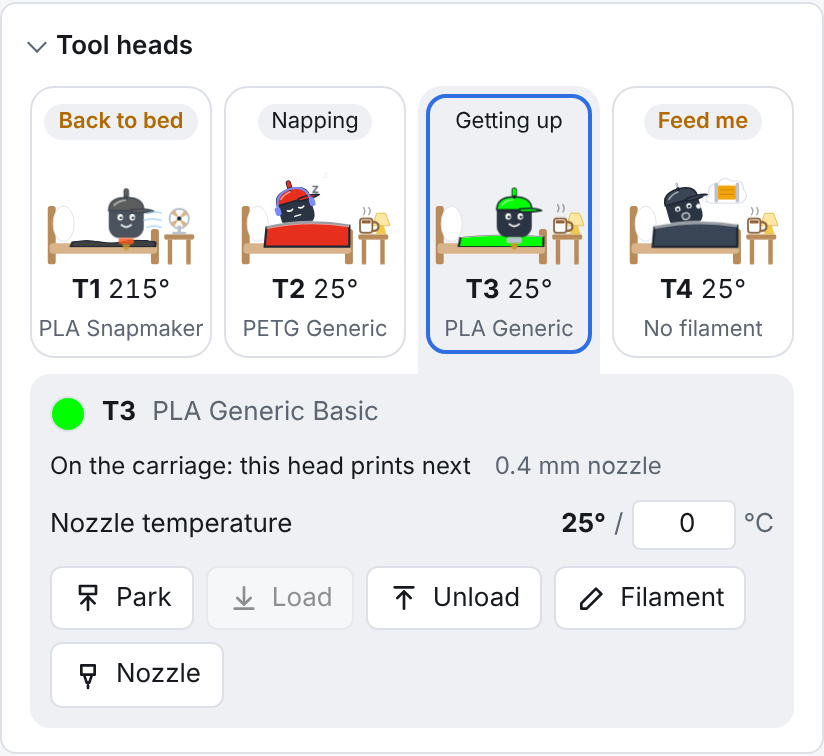
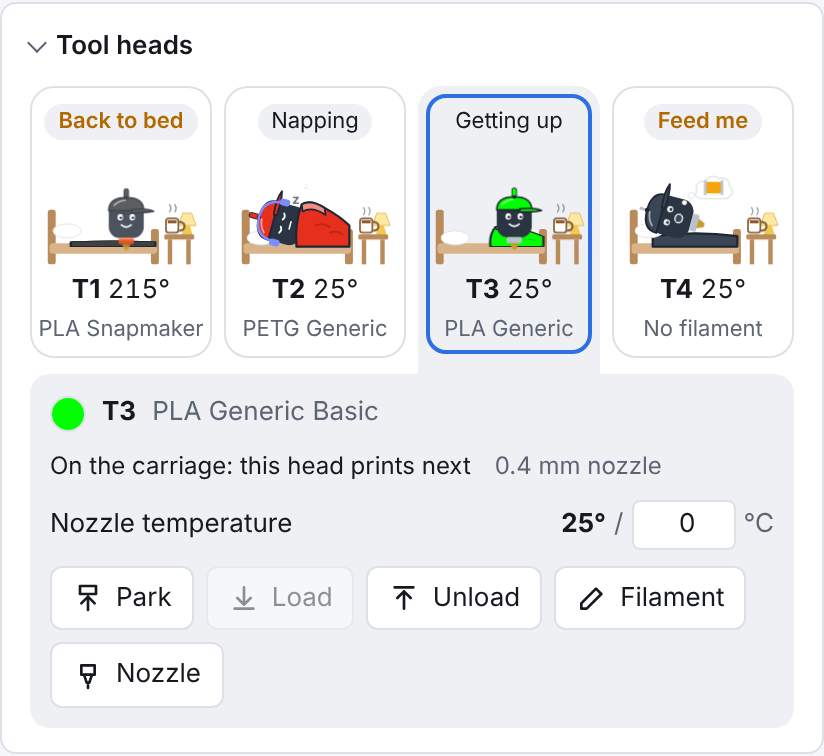
Device: docked heads lie back on the pillow (L3), tucked in to the chin or on top of the blanket by mood
Claude-Session: https://claude.ai/code/session_01NuZpi382jh2qaLFFDcqjx2

diff --git a/apps/web/src/device/ui/HeadBed.tsx b/apps/web/src/device/ui/HeadBed.tsx
@@ -1,5 +1,5 @@
 import { STILL_HOT, type HeadMood } from '../heads';
-import { HeadBody, HeadFeatures } from './HeadFace';
+import { HeadBody } from './HeadFace';
 
 /**
  * What a docked head is doing in its bed: asleep, a coffee break now and then,
@@ -18,77 +18,57 @@ const PHONES = (
   </g>
 );
 
-/** How a docked head rests, from its mood: what it does in bed and what is on the bedside table. */
-type Pose = 'nap' | 'hot' | 'cooling' | 'dream' | 'stretch' | 'worried';
+/** How a docked head rests, from its mood: under or on top of the blanket, and what is around it. */
+type Pose = 'nap' | 'hot' | 'cooling' | 'hungry' | 'heating' | 'worried';
 
 function poseOf(mood: HeadMood, temp: number): Pose {
-  if (mood === 'worried') return 'worried';
-  if (mood === 'hungry') return 'dream';
-  if (mood === 'heating') return 'stretch';
-  if (mood === 'cooling') return 'cooling';
+  if (mood === 'worried' || mood === 'hungry' || mood === 'heating' || mood === 'cooling') return mood;
   if (mood === 'hot' || temp >= STILL_HOT) return 'hot';
   return 'nap';
 }
 
+const FACE: Record<Pose, HeadMood> = { nap: 'napping', hot: 'hot', cooling: 'cooling', hungry: 'hungry', heating: 'heating', worried: 'worried' };
+
 /**
- * A docked tool head in bed, propped up on its pillow so the face shows.
- * Napping: headphones on, under a blanket in its filament colour; now and then
- * a coffee break (headphones on the bedpost, sits up, sips from the mug on the
- * bedside table, lies back). Hot: rests the same way but on top of the
- * blanket, sweating; cooling down adds a fan on the bedside table. No
- * filament: sits on top of the blanket, looks at you and thinks of a spool.
- * Heating up: sits up and stretches as the heat rises. Getting up and going
- * to bed are the same moves.
+ * A docked tool head lying back on its pillow, cap on the pillow, the face
+ * tilting with it. Napping (headphones on), heating up and check me are
+ * tucked in under a blanket in the filament colour, pulled up to the chin;
+ * hot, cooling down (with a fan on the bedside table) and feed me (dreaming
+ * of a spool) lie on top of it. Now and then a napping head takes a coffee
+ * break: headphones on the bedpost, sits up, sips from the mug, lies back.
+ * Getting up and going to bed are the same moves.
  */
 export function HeadBed({ mood, colour, loaded, temp, scene, size = 60 }: { mood: HeadMood; colour: string | null; loaded: boolean | null; temp: number; scene: BedScene; size?: number }) {
   const blanketColour = loaded && colour ? colour : 'var(--dv-head-hi)';
   const pose = poseOf(mood, temp);
-  const edge = { stroke: 'var(--dv-outline)', strokeWidth: 2.5 };
-  // Napping, hot and cooling heads lie down on the pillow; the face stays upright so the mood reads.
-  const lies = pose === 'nap' || pose === 'hot' || pose === 'cooling' || pose === 'worried';
-  const onTop = pose === 'hot' || pose === 'cooling' || pose === 'dream';
-  const blanketPath = lies && !onTop ? 'M70 54Q96 46 124 56V80H68Z' : pose === 'stretch' ? 'M30 66Q76 58 124 64V80H28Z' : onTop && lies ? 'M30 64Q76 58 124 64V80H28Z' : 'M30 58Q76 48 124 56V80H28Z';
-  const blanket = (
+  const onTop = pose === 'hot' || pose === 'cooling' || pose === 'hungry';
+  // Where the head rests: on the mattress, or a little higher on top of the blanket.
+  const b = onTop ? 68 : 76;
+  const edge = { stroke: 'var(--dv-outline)', strokeWidth: 2.5, strokeLinejoin: 'round' as const };
+  const blanket = onTop ? (
     <g className="dv-bed-blanket">
-      <path d={blanketPath} fill={blanketColour} {...edge} />
-      <path d={blanketPath.replace(/V.*$/, '')} stroke="rgba(255,255,255,.55)" strokeWidth="4" fill="none" />
-    </g>
-  );
-  const faceMood: HeadMood = pose === 'nap' ? 'napping' : pose === 'worried' ? 'worried' : pose === 'hot' ? 'hot' : 'cooling';
-  const lying = lies ? (
-    <>
-      <g transform={`translate(12 ${onTop ? 72 : 90}) rotate(-90) scale(.78)`} style={PLACED}>
-        <HeadBody mood={faceMood} colour={colour} loaded={loaded} temp={temp} face={false} />
-        {pose === 'nap' && PHONES}
-      </g>
-      <g transform={`translate(17 ${onTop ? -7 : 11}) scale(.72)`} style={PLACED}>
-        <HeadFeatures mood={faceMood} />
-      </g>
-    </>
-  ) : pose === 'stretch' ? (
-    <g transform="translate(30 10) scale(.6)" style={PLACED}>
-      <g className="dv-bed-stretch">
-        <HeadBody mood="heating" colour={colour} loaded={loaded} temp={temp} />
-      </g>
+      <path d="M28 68Q76 62 124 68V80H28Z" fill={blanketColour} {...edge} />
     </g>
   ) : (
-    // Sits up on top of the blanket, facing you.
-    <g transform="translate(34 6) scale(.6)" style={PLACED}>
-      <HeadBody mood="hungry" colour={colour} loaded={loaded} temp={temp} />
+    <g className="dv-bed-blanket">
+      <path d={`M70 ${b - 44}Q80 ${b - 50} 96 ${b - 40}Q114 ${b - 30} 124 ${b - 20}V${b + 4}H64Q62 ${b - 24} 70 ${b - 44}Z`} fill={blanketColour} {...edge} />
+      <path d={`M70 ${b - 44}Q80 ${b - 50} 96 ${b - 40}L97 ${b - 32}Q82 ${b - 42} 71 ${b - 36}Z`} fill="rgba(255,255,255,.45)" {...edge} strokeWidth={2} />
+      <path d={`M86 ${b - 20}q8-4 16 2M102 ${b - 12}q8-3 14 2`} stroke="rgba(0,0,0,.18)" strokeWidth="2" fill="none" strokeLinecap="round" />
     </g>
   );
   return (
     <svg className={`dv-bed dv-bed-${scene} dv-bed-pose-${pose}`} viewBox="0 0 170 104" width={size * 1.63} height={size} aria-hidden>
-      <rect x="2" y="34" width="9" height="66" rx="3" fill="var(--dv-wood)" />
+      <rect x="2" y="38" width="9" height="62" rx="3" fill="var(--dv-wood)" />
       <rect x="119" y="60" width="9" height="40" rx="3" fill="var(--dv-wood)" />
       <rect x="4" y="76" width="122" height="12" rx="4" fill="var(--dv-mattress)" />
-      {lies ? (
-        <ellipse cx="26" cy={onTop ? 62 : 68} rx="17" ry="9" fill="#fff" stroke="var(--border)" />
-      ) : (
-        <ellipse cx="20" cy="54" rx="12" ry="20" fill="#fff" stroke="var(--border)" />
-      )}
       {onTop && blanket}
-      <g className="dv-bed-lie">{lying}</g>
+      <ellipse cx="24" cy={b - 6} rx="16" ry="8" fill="#fff" stroke="var(--border)" />
+      <g className="dv-bed-lie">
+        <g transform={`translate(50 ${b - 22}) rotate(-75) scale(.7) translate(-50 -54)`} style={PLACED}>
+          <HeadBody mood={FACE[pose]} colour={colour} loaded={loaded} temp={temp} />
+          {pose === 'nap' && PHONES}
+        </g>
+      </g>
       {!onTop && blanket}
       <g className="dv-bed-sit">
         <g transform="translate(60 16) scale(.62)" style={PLACED}>
@@ -97,9 +77,9 @@ export function HeadBed({ mood, colour, loaded, temp, scene, size = 60 }: { mood
         </g>
       </g>
       <g className="dv-bed-post">
-        <path d="M-2 34Q6 18 14 34" stroke="var(--dv-phones)" strokeWidth="3" fill="none" />
-        <rect x="-5" y="32" width="7" height="11" rx="3" fill="var(--dv-phones)" />
-        <rect x="10" y="32" width="7" height="11" rx="3" fill="var(--dv-phones)" />
+        <path d="M-2 38Q6 22 14 38" stroke="var(--dv-phones)" strokeWidth="3" fill="none" />
+        <rect x="-5" y="36" width="7" height="11" rx="3" fill="var(--dv-phones)" />
+        <rect x="10" y="36" width="7" height="11" rx="3" fill="var(--dv-phones)" />
       </g>
       <rect x="134" y="66" width="34" height="6" rx="2" fill="var(--dv-wood)" />
       <rect x="138" y="72" width="5" height="28" fill="var(--dv-wood)" />
@@ -107,15 +87,15 @@ export function HeadBed({ mood, colour, loaded, temp, scene, size = 60 }: { mood
       {pose === 'cooling' ? (
         <g className="dv-bed-fan">
           <g transform="translate(151 48)" style={PLACED}>
-            <rect x="-2" y="8" width="4" height="8" fill="var(--dv-metal)" />
-            <rect x="-8" y="15" width="16" height="3" rx="1.5" fill="var(--dv-metal)" />
+            <rect x="-2" y="8" width="4" height="10" fill="var(--dv-metal)" />
+            <rect x="-8" y="16" width="16" height="3" rx="1.5" fill="var(--dv-metal)" />
             <circle r="11" fill="none" stroke="var(--dv-metal)" strokeWidth="2" />
             <g className="dv-bed-blades">
               <path d="M0 0L-3-10Q0-12 3-10ZM0 0L10-3Q12 0 10 3ZM0 0L3 10Q0 12-3 10ZM0 0L-10 3Q-12 0-10-3Z" fill="var(--dv-mattress)" />
             </g>
             <circle r="2.4" fill="var(--dv-outline)" />
           </g>
-          <path className="dv-bed-wind" d="M134 42q-8-3-16 0M134 50q-10-3-20 0M134 58q-8-3-16 0" stroke="#7fc4ff" strokeWidth="2" fill="none" strokeLinecap="round" />
+          <path className="dv-bed-wind" d="M134 40q-8-3-16 0M134 48q-10-3-20 0M134 56q-8-3-16 0" stroke="#7fc4ff" strokeWidth="2" fill="none" strokeLinecap="round" />
         </g>
       ) : (
         <>
@@ -134,48 +114,48 @@ export function HeadBed({ mood, colour, loaded, temp, scene, size = 60 }: { mood
   );
 }
 
-/** Above the head: z's, sweat, a dream of a spool, steam or a "!". Hidden while the head gets up. */
+/** Above the head: z's, sweat, a dream of a spool, heat waves or a "!". Hidden while the head gets up. */
 function BedExtra({ pose }: { pose: Pose }) {
   switch (pose) {
     case 'hot':
-    case 'cooling':
       return (
         <g className="dv-bed-z" fill="#5db4ff">
-          <path className="dv-face-drop" d="M84 30q4 7 0 10q-4-3 0-10z" />
-          <path className="dv-face-drop dv-face-z2" d="M96 38q3 5 0 8q-3-2 0-8z" />
+          <path className="dv-face-drop" d="M66 22q4 7 0 10q-4-3 0-10z" />
+          <path className="dv-face-drop dv-face-z2" d="M78 28q3 5 0 8q-3-2 0-8z" />
         </g>
       );
-    case 'dream':
+    case 'cooling':
+      return <path className="dv-bed-z dv-face-drop" d="M70 26q3 5 0 8q-3-2 0-8z" fill="#5db4ff" />;
+    case 'hungry':
       return (
-        <g className="dv-bed-z" transform="translate(14 0)" style={PLACED}>
-          <circle cx="80" cy="34" r="2.5" fill="var(--surface)" stroke="var(--border)" />
-          <circle cx="88" cy="26" r="3.5" fill="var(--surface)" stroke="var(--border)" />
+        <g className="dv-bed-z">
+          <circle cx="64" cy="30" r="2.5" fill="var(--surface)" stroke="var(--border)" />
+          <circle cx="72" cy="22" r="3.5" fill="var(--surface)" stroke="var(--border)" />
           <g className="dv-bed-dream">
-            <path d="M92 22q-3-13 10-13q5-10 16-3q13-2 13 10q8 8-3 15h-34q-10-3-2-9z" fill="var(--surface)" stroke="var(--border)" strokeWidth="1.5" />
-            <rect x="101" y="11" width="22" height="16" rx="2" fill="var(--dv-warm)" />
-            <rect x="98" y="8" width="4" height="22" rx="1.5" fill="var(--dv-metal)" />
-            <rect x="122" y="8" width="4" height="22" rx="1.5" fill="var(--dv-metal)" />
-            <path d="M104 16h16M104 21h16" stroke="rgba(0,0,0,.2)" />
+            <path d="M78 18q-3-12 10-12q5-9 15-3q12-2 12 9q8 7-3 14h-30q-9-3-4-8z" fill="var(--surface)" stroke="var(--border)" strokeWidth="1.5" />
+            <rect x="88" y="7" width="18" height="13" rx="2" fill="var(--dv-warm)" />
+            <rect x="86" y="5" width="3" height="17" rx="1" fill="var(--dv-metal)" />
+            <rect x="105" y="5" width="3" height="17" rx="1" fill="var(--dv-metal)" />
           </g>
         </g>
       );
-    case 'stretch':
+    case 'heating':
       return (
-        <path className="dv-bed-z dv-face-steam" d="M80 14q4-5 0-10M90 18q4-5 0-10" stroke="var(--dv-hot)" strokeWidth="2.5" fill="none" strokeLinecap="round" />
+        <path className="dv-bed-z dv-face-steam" d="M60 34q4-4 0-8t0-8M72 34q4-4 0-8t0-8M84 36q4-4 0-8t0-8" stroke="var(--dv-hot)" strokeWidth="2.5" fill="none" strokeLinecap="round" />
       );
     case 'worried':
       return (
-        <text className="dv-bed-z" x="84" y="26" fontSize="22" fontWeight="800" fill="var(--dv-warn)">
+        <text className="dv-bed-z" x="64" y="34" fontSize="22" fontWeight="800" fill="var(--dv-warn)">
           !
         </text>
       );
     default:
       return (
         <g className="dv-bed-z" fill="var(--muted)" fontWeight="700">
-          <text className="dv-face-z" x="78" y="22" fontSize="15">
+          <text className="dv-face-z" x="56" y="34" fontSize="15">
             z
           </text>
-          <text className="dv-face-z dv-face-z2" x="88" y="12" fontSize="11">
+          <text className="dv-face-z dv-face-z2" x="66" y="24" fontSize="11">
             z
           </text>
         </g>

diff --git a/apps/web/src/device/ui/HeadFace.tsx b/apps/web/src/device/ui/HeadFace.tsx
@@ -92,18 +92,8 @@ function Cap({ colour }: { colour: string }) {
   );
 }
 
-/** Eyes and mouth alone, so a head lying down can keep its face upright. */
-export function HeadFeatures({ mood }: { mood: HeadMood }) {
-  return (
-    <>
-      <Eyes mood={mood} />
-      <Mouth mood={mood} />
-    </>
-  );
-}
-
 /** The character itself, in the 100 x 120 box both drawings share: filament, body, face and hot end. */
-export function HeadBody({ mood, colour, loaded, temp, face = true }: { mood: HeadMood; colour: string | null; loaded: boolean | null; temp: number; face?: boolean }) {
+export function HeadBody({ mood, colour, loaded, temp }: { mood: HeadMood; colour: string | null; loaded: boolean | null; temp: number }) {
   const band = loaded && colour ? colour : 'var(--dv-head-hi)';
   return (
     <g className="dv-face-body">
@@ -127,7 +117,8 @@ export function HeadBody({ mood, colour, loaded, temp, face = true }: { mood: He
       )}
       <rect x="18" y="20" width="64" height="66" rx="20" fill="var(--dv-head-body)" />
       <Cap colour={band} />
-      {face && <HeadFeatures mood={mood} />}
+      <Eyes mood={mood} />
+      <Mouth mood={mood} />
       <rect x="36" y="86" width="28" height="11" rx="3" fill={heat(temp)} />
       <path d="M42 97H58L53 108H47Z" fill="var(--dv-brass)" />
     </g>

diff --git a/apps/web/src/styles.css b/apps/web/src/styles.css
@@ -3725,10 +3725,6 @@ select:focus-visible {
   .dv-bed-dream {
     animation: dv-bed-dream 3s ease-in-out infinite;
   }
-  .dv-bed-stretch {
-    transform-origin: 50% 100%;
-    animation: dv-bed-stretch 2.4s ease-in-out infinite;
-  }
 }
 @keyframes dv-bed-spin {
   to {
@@ -3752,16 +3748,6 @@ select:focus-visible {
   50% {
     transform: translateY(-2px);
     opacity: 0.8;
-  }
-}
-@keyframes dv-bed-stretch {
-  0%,
-  100% {
-    transform: scaleY(1);
-  }
-  40%,
-  60% {
-    transform: scaleY(1.08);
   }
 }
 .dv-chip {
